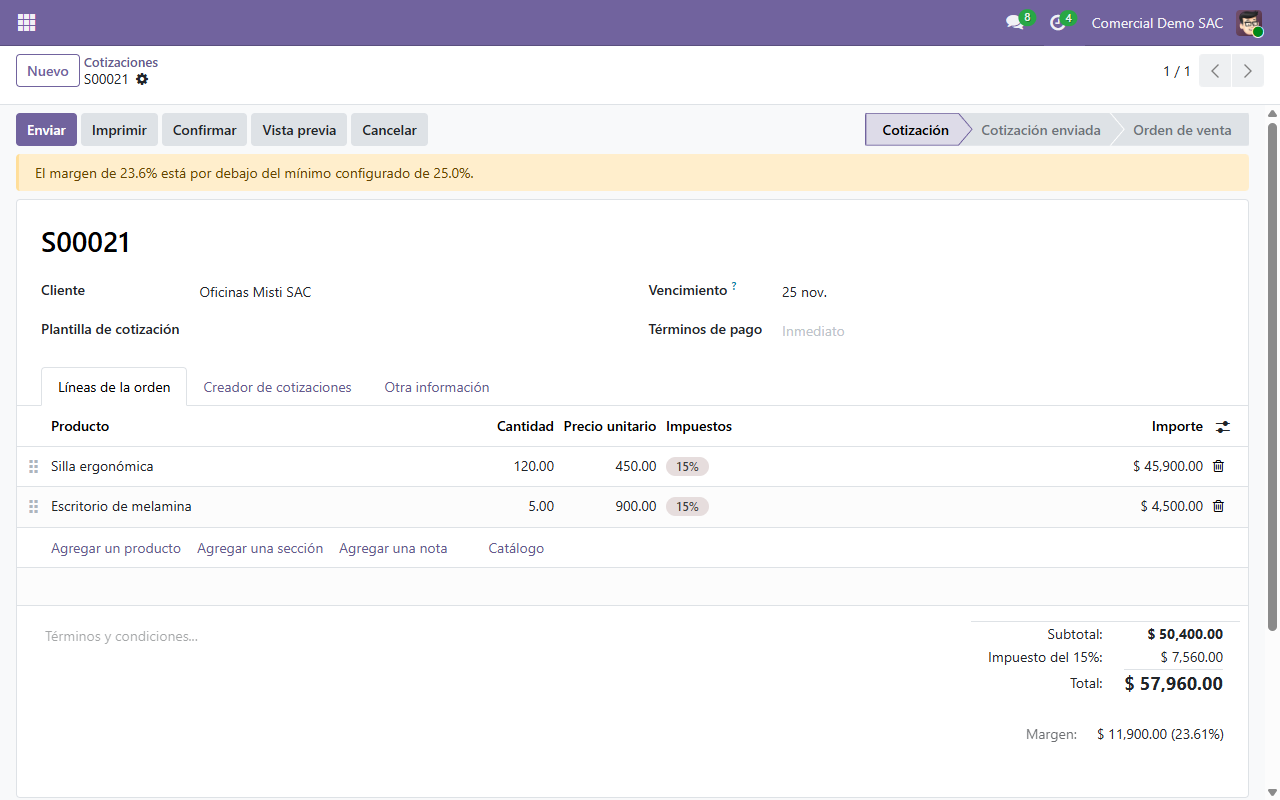
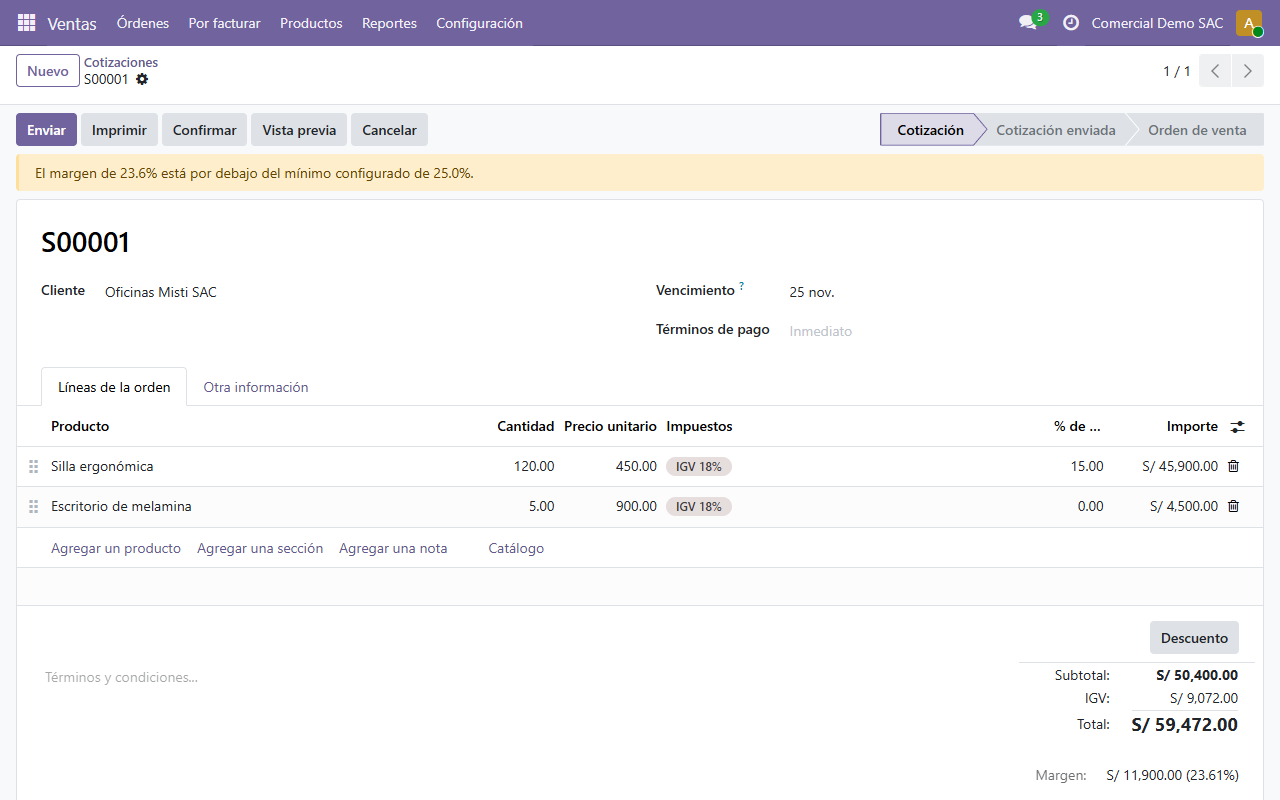
fix: turn on the Discounts setting so tier discounts are visible
Tiers write Odoo's native line discount, whose column only shows with
Settings > Sales > Discounts on. Odoo's own demo data turns it on, which hid
the problem; on a clean database the module applied discounts nobody could
see. Installing the module now turns the setting on. One new test (20).

Screenshots retaken from a database with the Peruvian chart of accounts:
soles and IGV 18% instead of USD and the generic 15% tax.

diff --git a/addons/sale_tiered_pricing/tests/test_pricing_tier.py b/addons/sale_tiered_pricing/tests/test_pricing_tier.py
@@ -35,6 +35,10 @@ class TestPricingTier(TransactionCase):
         )
         return order, line
 
+    def test_installing_turns_on_the_discount_column(self):
+        # Tiers write the native line discount; without this group its column stays hidden.
+        self.assertTrue(self.env.user.has_group("sale.group_discount_per_so_line"))
+
     def test_qty_below_first_tier_gets_no_discount(self):
         _, line = self._create_order(9)
         self.assertFalse(line.tier_id)

diff --git a/addons/sale_tiered_pricing/__manifest__.py b/addons/sale_tiered_pricing/__manifest__.py
@@ -13,6 +13,7 @@ configurable minimum.
     "depends": ["sale", "sale_margin"],
     "data": [
         "security/ir.model.access.csv",
+        "data/res_groups.xml",
         "views/pricing_tier_views.xml",
         "views/res_config_settings_views.xml",
         "views/sale_order_views.xml",

diff --git a/README.md b/README.md
@@ -2,7 +2,7 @@
 
 [![tests](https://github.com/sebpost2/sale_tiered_pricing/actions/workflows/tests.yml/badge.svg)](https://github.com/sebpost2/sale_tiered_pricing/actions/workflows/tests.yml)
 
-**19 passing tests.** An Odoo 19 addon that applies volume discount tiers to
+**20 passing tests.** An Odoo 19 addon that applies volume discount tiers to
 quotation lines automatically, flags quotations whose aggregate margin falls
 below a configurable minimum, and extends the quotation PDF to show the
 applied tier.
@@ -14,7 +14,8 @@ applied tier.
   Pricing Tiers.
 - **Automatic discounting**: each quotation line's quantity is matched
   against the tier ladder and the discount is applied to Odoo's native
-  `discount` field — no parallel pricing mechanism.
+  `discount` field — no parallel pricing mechanism. Installing the module turns on
+  Settings, Sales, Discounts, so the discount column shows.
 - **Margin guard**: a configurable minimum margin percentage (Settings,
   Sales) is checked against the quotation's aggregate margin, computed by
   Odoo's own `sale_margin` module. Quotations below the minimum show a
